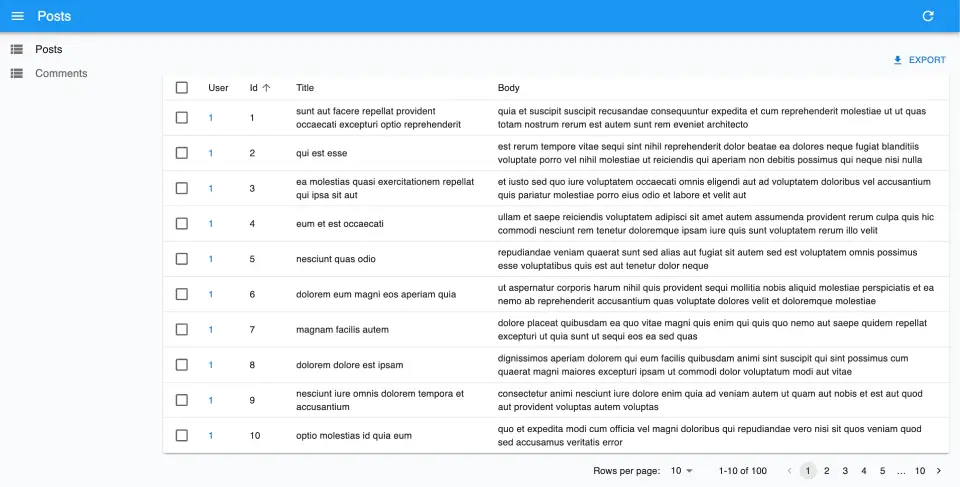
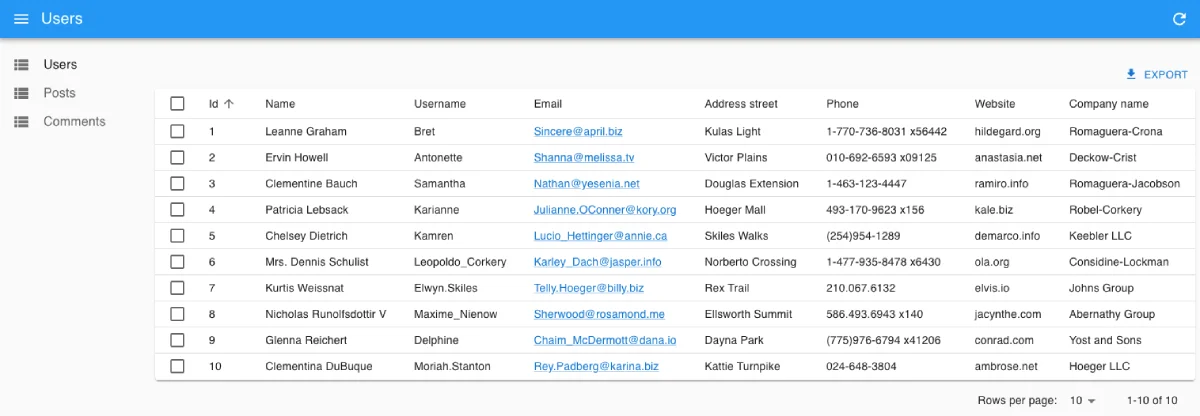
Add Edit pages to test routing

diff --git a/docs/NextJs.md b/docs/NextJs.md
@@ -46,22 +46,23 @@ Next, create the admin app component in `src/admin/App.jsx`:
 ```jsx
 // in src/admin/App.jsx
 import * as React from "react";
-import { Admin, Resource, ListGuesser } from 'react-admin';
+import { Admin, Resource, ListGuesser, EditGuesser } from 'react-admin';
 import jsonServerProvider from 'ra-data-json-server';
 
 const dataProvider = jsonServerProvider('https://jsonplaceholder.typicode.com');
 
 const App = () => (
   <Admin dataProvider={dataProvider}>
-    <Resource name="posts" list={ListGuesser} />
-    <Resource name="comments" list={ListGuesser} />
+    <Resource name="users" list={ListGuesser} edit={EditGuesser} recordRepresentation="name" />
+    <Resource name="posts" list={ListGuesser} edit={EditGuesser} recordRepresentation="title" />
+    <Resource name="comments" list={ListGuesser} edit={EditGuesser} />
   </Admin>
 );
 
 export default App;
 ```
 
-This is a minimal admin for 2 resources. React-admin should be able to render a list of posts and a list of comments, guessing the data structure from the API response. 
+This is a minimal configuration to render CRUD pages for users, posts and comments. React-admin guesses the data structure from the API response. 
 
 Now, let's configure Next.js to render the admin app component in the root path ('/'). Edit the file called `pages/index.tsx`, and replace the content with the following:
 
@@ -119,12 +120,13 @@ Let's see an example in practice.
 
 First, create a Supabase REST API and its associated PostgreSQL database directly on the [Supabase website](https://app.supabase.com/) (it's free for tests and low usage). Once the setup is finished, use the Supabase manager to add the following tables:
 
+- `users` with fields: `id`, `name`, and `email`
 - `posts` with fields: `id`, `title`, and `body` 
 - `comments` with fields: `id`, `name`, `body`, and `postId` (a foreign key to the `posts.id` field)
 
 You can populate these tables via the Supabse UI if you want. Supabase exposes a REST API at `https://YOUR_INSTANCE.supabase.co/rest/v1`.
 
-Copy the supabase API URL and service role key into Next.js's `.env.local` file:
+Copy the Supabase API URL and service role key into Next.js's `.env.local` file:
 
 ```sh
 # In `.env.local`
@@ -180,15 +182,16 @@ yarn add @raphiniert/ra-data-postgrest
 ```jsx
 // in src/admin/App.jsx
 import * as React from "react";
-import { Admin, Resource, ListGuesser } from 'react-admin';
+import { Admin, Resource, ListGuesser, EditGuesser } from 'react-admin';
 import postgrestRestProvider from "@raphiniert/ra-data-postgrest";
 
 const dataProvider = postgrestRestProvider("/api/admin");
 
 const App = () => (
   <Admin dataProvider={dataProvider}>
-    <Resource name="posts" list={ListGuesser} />
-    <Resource name="comments" list={ListGuesser} />
+    <Resource name="users" list={ListGuesser} edit={EditGuesser} recordRepresentation="name" />
+    <Resource name="posts" list={ListGuesser} edit={EditGuesser} recordRepresentation="title" />
+    <Resource name="comments" list={ListGuesser} edit={EditGuesser} />
   </Admin>
 );
 
@@ -221,15 +224,16 @@ Next, replace the `app/pages.tsx` file with the following code, which initialize
 ```jsx
 // in app/pages.tsx
 "use client";
-import { Admin, Resource, ListGuesser } from 'react-admin';
-import jsonServerProvider from 'ra-data-json-server';
+import { Admin, Resource, ListGuesser, EditGuesser } from "react-admin";
+import jsonServerProvider from "ra-data-json-server";
 
-const dataProvider = jsonServerProvider('https://jsonplaceholder.typicode.com');
+const dataProvider = jsonServerProvider("https://jsonplaceholder.typicode.com");
 
 const App = () => (
   <Admin dataProvider={dataProvider}>
-    <Resource name="posts" list={ListGuesser} />
-    <Resource name="comments" list={ListGuesser} />
+    <Resource name="users" list={ListGuesser} edit={EditGuesser} recordRepresentation="name" />
+    <Resource name="posts" list={ListGuesser} edit={EditGuesser} recordRepresentation="title" />
+    <Resource name="comments" list={ListGuesser} edit={EditGuesser} />
   </Admin>
 );
 
@@ -240,7 +244,7 @@ Now, start the server with `yarn dev`, browse to `http://localhost:3000/`, and y
 
 ![Working Page](./img/nextjs-react-admin.webp)
 
-React-admin renders a CRUD for posts and comments, guessing the data structure from the API response. 
+React-admin renders a CRUD for users, posts and comments, guessing the data structure from the API response. 
 
 **Tip**: Why the `"use client"` directive? React-admin is designed as a Single-Page Application, rendered on the client-side. It comes with various client-side only libraries (emotion, material-ui, react-query) leveraging the React Context API, and cannot be rendered using React Server components.
 
